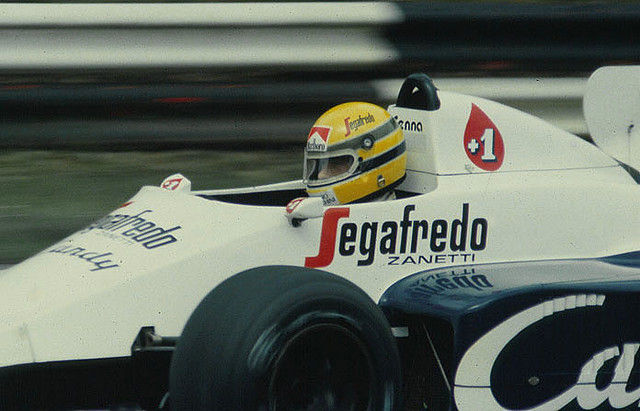
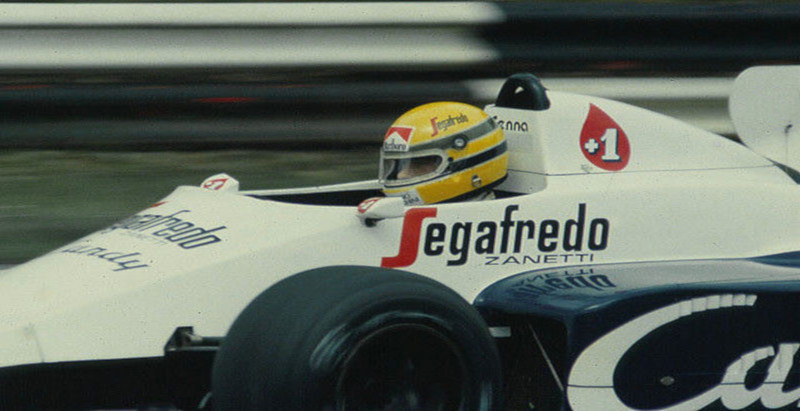
images started to be edited

diff --git a/senna tribute/index.html b/senna tribute/index.html
@@ -26,8 +26,8 @@
         <article>
             
             <picture>
-                <source media="(max-width:600px )" srcset="images/ayrton-Senna-pequeno.jpg">
-                <img src="images/ayrton-Senna.jpg" class="ajust" alt="ayrton senna holding his helmet">
+                <source media="(max-width:600px )" srcset="images/ayrton-Senna-pequeno.jpg" class="ajust">
+                <img src="images/ayrton-Senna.jpg"  alt="ayrton senna holding his helmet">
             </picture>
             <p>
                 Ayrton Senna da Silva born in São Paulo in 1960 on March 21th. He was a famous F1 pilot, marked by his patriotism and charism, there was not even a single brazilian who didn't like to watch him on sunday morning in the races.
@@ -81,7 +81,10 @@
                 </p>
                 <h4>Lotus</h4>
                 
-                <img src="images/1985_lotus.jpg" alt="senna in the lotus team">
+                <picture>
+                    <source media="(max-width: 600px )" srcset="images/1985_lotus_pequeno.jpg">
+                    <img src="images/1985_lotus.jpg" alt="senna in the lotus team">
+                </picture>
                 <p>
                     Lorem ipsum dolor sit amet consectetur adipisicing elit. Officiis, quam? Culpa similique natus quasi, distinctio vero voluptatibus iste hic reprehenderit placeat enim dolores obcaecati eos consectetur nesciunt ducimus et, quos laudantium tempora possimus repellendus? Doloribus hic, ullam quas et ea officiis sapiente incidunt non totam nobis praesentium dolorum maxime aliquam quae pariatur. Obcaecati voluptates autem atque fugit ducimus! Odio dolorem debitis commodi voluptas accusamus culpa. Nostrum tempora, voluptatem, soluta beatae porro eveniet placeat sint facilis cumque aliquid nemo dolor, veritatis laboriosam perspiciatis. Cumque tenetur non nam! Tempora perferendis sit ab odit, aspernatur distinctio, molestias labore officia quas nisi magni deleniti.
                 </p>

diff --git a/senna tribute/style.css b/senna tribute/style.css
@@ -62,11 +62,13 @@ main p{
     margin: 0px;
 }
 img{
-    width: 100%;
+    
+    margin: auto;
     display: block;
+    
 }
-main img.ajust{
-    width: 60%;;
+.ajust{
+    width: 100%;;
     margin: auto;
 }
 
